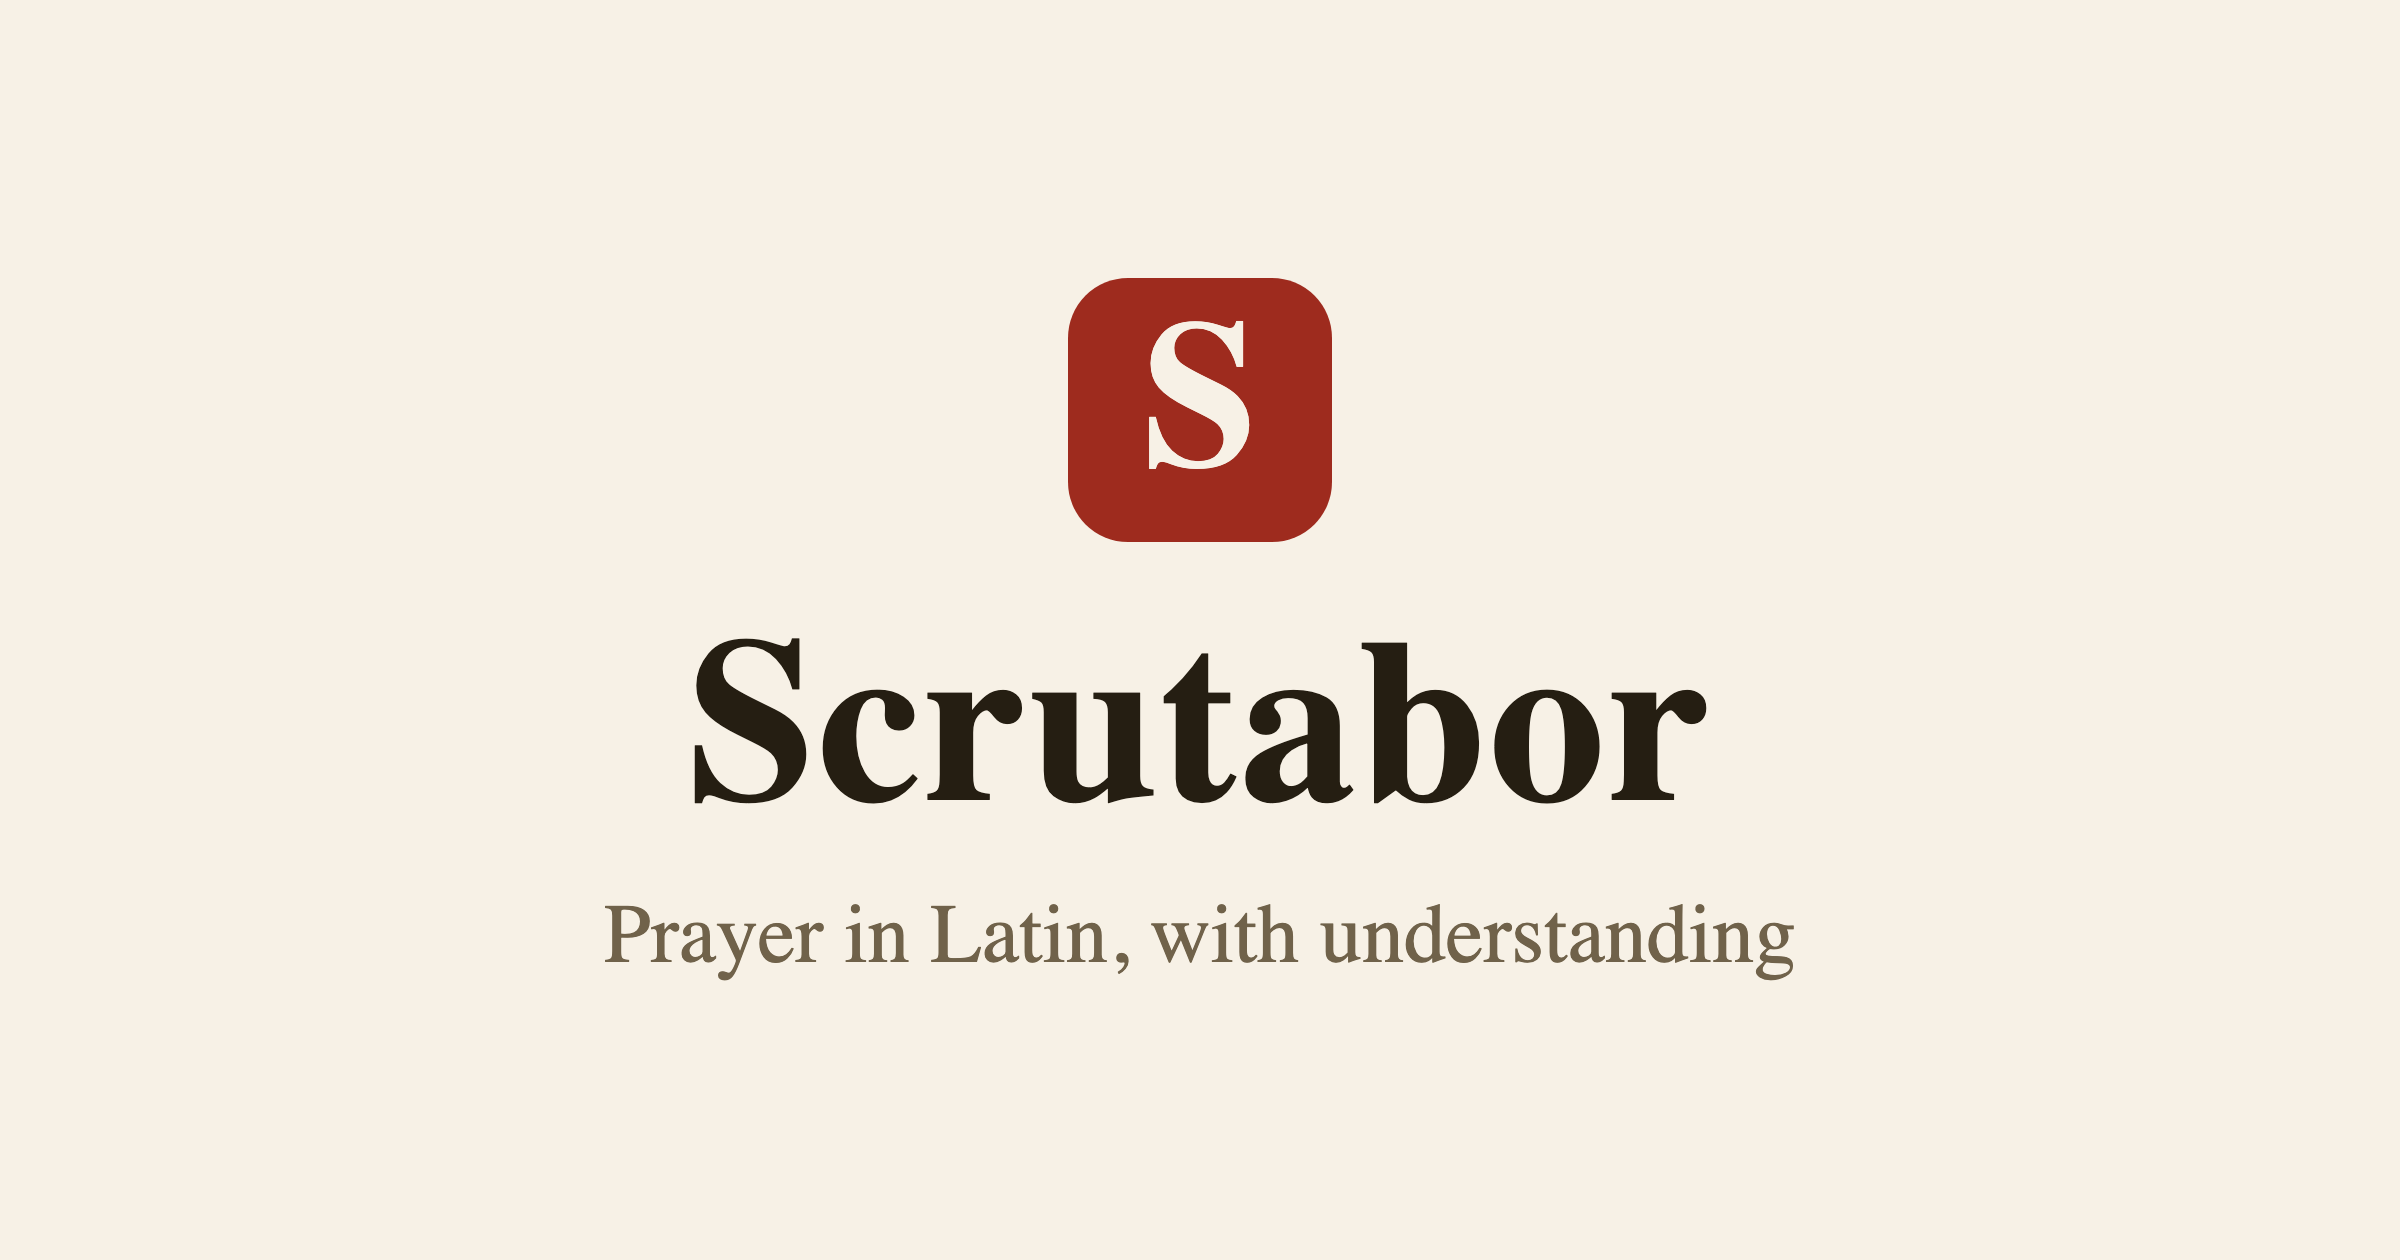
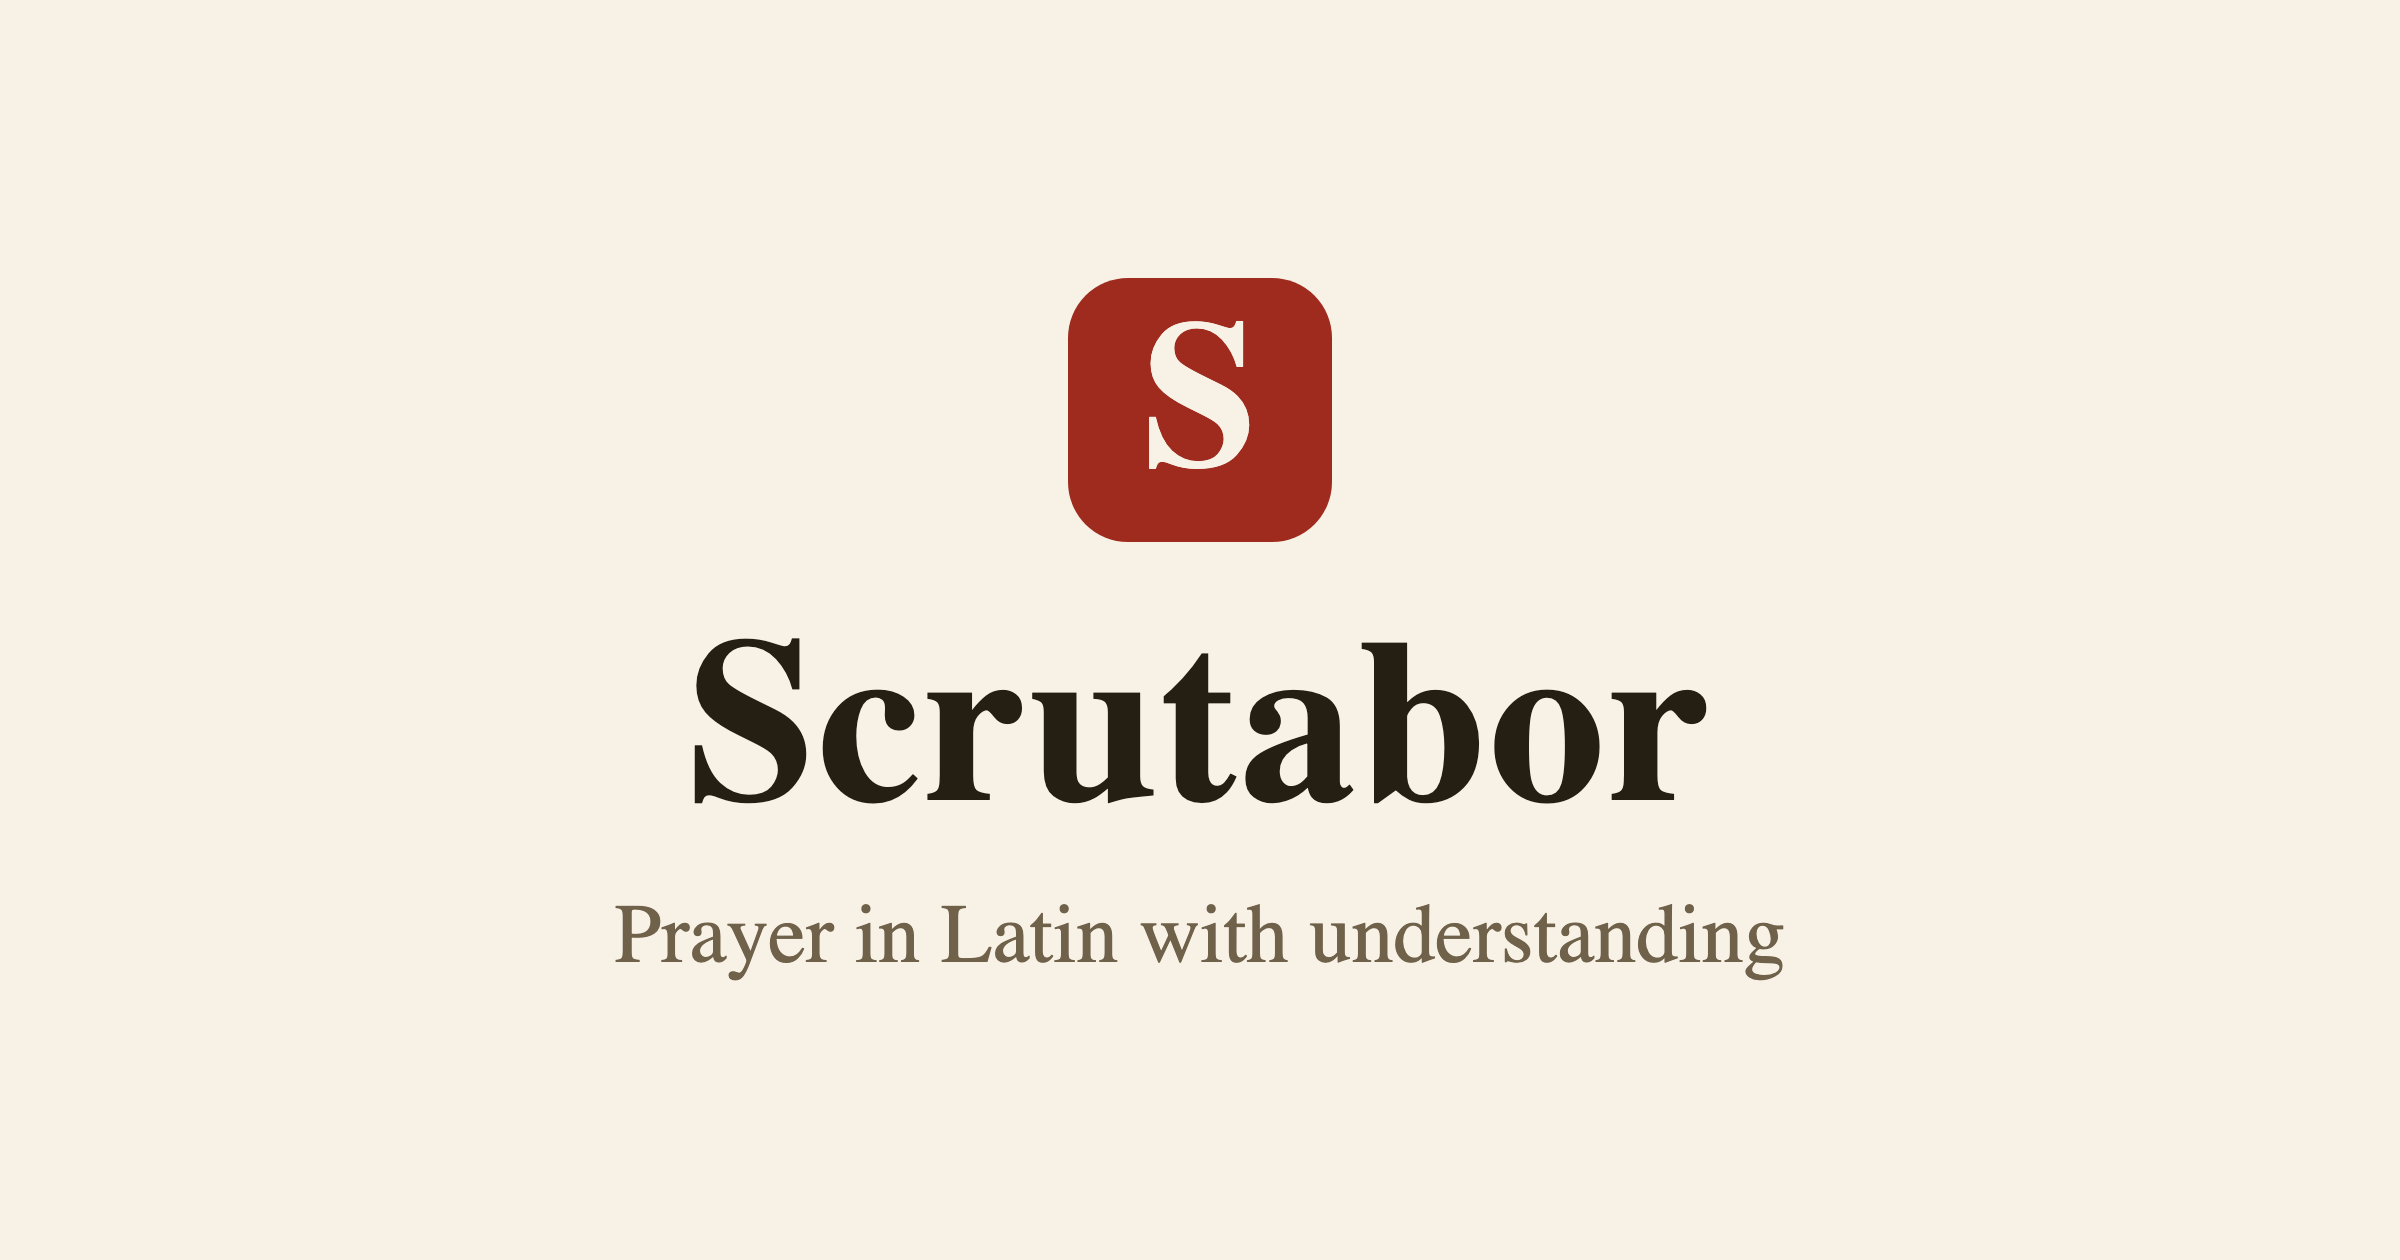
fix: the tagline drops its comma
Prayer in Latin with understanding — the owner ruled the English
tagline into the Polish one's shape (2026-08-20): one noun phrase, no
punctuation, the same words in the same order in both languages. The
comma was imitating the pause of 1 Corinthians 14:15, and the echo
lives in the words, not the mark — display type already runs dotless
by the same principle. Landed in the interface string, the landing
title and social metadata, the image alt texts, the README, and the
card script, with the English card redrawn.

Changed region(s): [[0.25, 0.7119, 0.75, 0.7738]]

diff --git a/src/routes/[lang=lang]/+page.svelte b/src/routes/[lang=lang]/+page.svelte
@@ -85,7 +85,7 @@
 			sourcesLink: 'kod źródłowy na GitHubie'
 		}),
 		en: {
-			title: 'Scrutabor — prayer in Latin, with understanding',
+			title: 'Scrutabor — prayer in Latin with understanding',
 			description:
 				'A free Latin prayer book with word-by-word analysis: translation, grammar, and pronunciation for every word. The 1962 Ordo Missæ and common prayers, downloadable too.',
 			open: 'Open the prayer book',

diff --git a/src/routes/[lang=lang]/+layout.svelte b/src/routes/[lang=lang]/+layout.svelte
@@ -35,7 +35,7 @@
 		property="og:image:alt"
 		content={lang === 'pl'
 			? 'Scrutabor — modlitwa po łacinie ze zrozumieniem'
-			: 'Scrutabor — prayer in Latin, with understanding'}
+			: 'Scrutabor — prayer in Latin with understanding'}
 	/>
 	<meta name="twitter:card" content="summary_large_image" />
 	<!-- jscpd:ignore-end -->

diff --git a/src/routes/app/[lang=lang]/+layout.svelte b/src/routes/app/[lang=lang]/+layout.svelte
@@ -29,7 +29,7 @@
 		property="og:image:alt"
 		content={lang === 'pl'
 			? 'Scrutabor — modlitwa po łacinie ze zrozumieniem'
-			: 'Scrutabor — prayer in Latin, with understanding'}
+			: 'Scrutabor — prayer in Latin with understanding'}
 	/>
 	<meta name="twitter:card" content="summary_large_image" />
 </svelte:head>

diff --git a/src/lib/i18n.ts b/src/lib/i18n.ts
@@ -242,7 +242,7 @@ const MESSAGES: Record<Lang, Messages> = {
 	},
 	en: {
 		langName: 'English',
-		tagline: 'Prayer in Latin, with understanding',
+		tagline: 'Prayer in Latin with understanding',
 		mottoRef: 'ps\u00a0118\u00a0(119),\u00a034',
 		workingEdition: 'working edition',
 		edition: 'edition',

diff --git a/README.md b/README.md
@@ -1,6 +1,6 @@
 # Scrutabor
 
-_Prayer in Latin, with understanding._
+_Prayer in Latin with understanding._
 
 **Live at [scrutabor.org](https://scrutabor.org).**
 
